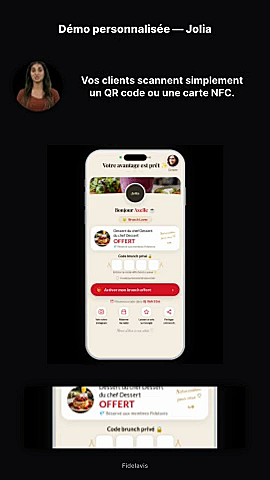
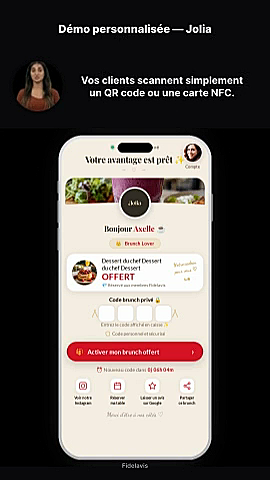
pilot(jolia) v9 : Coupon_zoom retiré (retour layout v7 propre)

Changed region(s): [[0.1778, 0.2812, 0.8296, 0.9688]]

diff --git a/jolia-video-production-report.md b/jolia-video-production-report.md
@@ -1,19 +1,19 @@
 # Rapport de production vidéo — **Jolia**
-_Généré le 2026-05-31 à 19:53_
+_Généré le 2026-05-31 à 19:57_
 
 ## ✅ Vidéo produite
 
 - **Fichier local** : `dm_videos/jolia-dm.mp4`
-- **Poids** : 0.45 MB
-- **Durée totale du pipeline** : 11.2 s
-- **URL Creatomate (CDN)** : https://f002.backblazeb2.com/file/creatomate-c8xg3hsxdu/406c005e-cc5c-4358-a40f-84953743e546.mp4
+- **Poids** : 0.47 MB
+- **Durée totale du pipeline** : 11.7 s
+- **URL Creatomate (CDN)** : https://f002.backblazeb2.com/file/creatomate-c8xg3hsxdu/187d92ed-1e4f-4980-ad0a-221de4dc0488.mp4
 
 ## ⏱ Durées
 
 - Script parlé estimé : **~11.2 s** (28 mots)
 - Vidéo finale : **30 s** (1080×1920, 30 fps)
 - Rendu HeyGen : ~0 s
-- Rendu Creatomate : ~11.2 s
+- Rendu Creatomate : ~11.7 s
 
 ## 💰 Coût
 
@@ -27,7 +27,7 @@ _(Vérifier les chiffres exacts dans les dashboards HeyGen et Creatomate.)_
 
 - HeyGen `video_id` : `<reused>`
 - HeyGen `video_url` : https://files2.heygen.ai/aws_pacific/avatar_tmp/288630a07eca49aa87460535cee78838/5f1c268c304e40e7b0c45bcedf09971c.mp4?Expires=1780849758&Signature=cCoA8M3s8Ay2xuG66zAt87NH8xMgksHtbdi-Ttg7HqbaF~H6~76oXDZqPSd18YdF8dkHRQIjS1voiDul9h0cL1icQY324AYF2jGfh6TevYrGhFoOla89QLTV5-n1MC5ffXlzXH2G3XTm2q9qUT-qmFFsj4c3i-UxcmoGi8-ZRYx4BGoZohlt96dDzTflUnuZ10hZhiXt-uWFALCGZYaOEDW3195TIghJa6Q1-B~-oB~4-Fu9H-inbAWBo0TWP5t~pdlrcORe1G4QAcSKqVhG8C0Ucb5CxqzgtHawRN9u5Q7b~56j~XIy1irXIGIUynHoZZGn340NsQRDzJCt~Ofhcw__&Key-Pair-Id=K38HBHX5LX3X2H
-- Creatomate `render_id` : `406c005e-cc5c-4358-a40f-84953743e546`
+- Creatomate `render_id` : `187d92ed-1e4f-4980-ad0a-221de4dc0488`
 
 ## 🎬 Scènes clés
 
